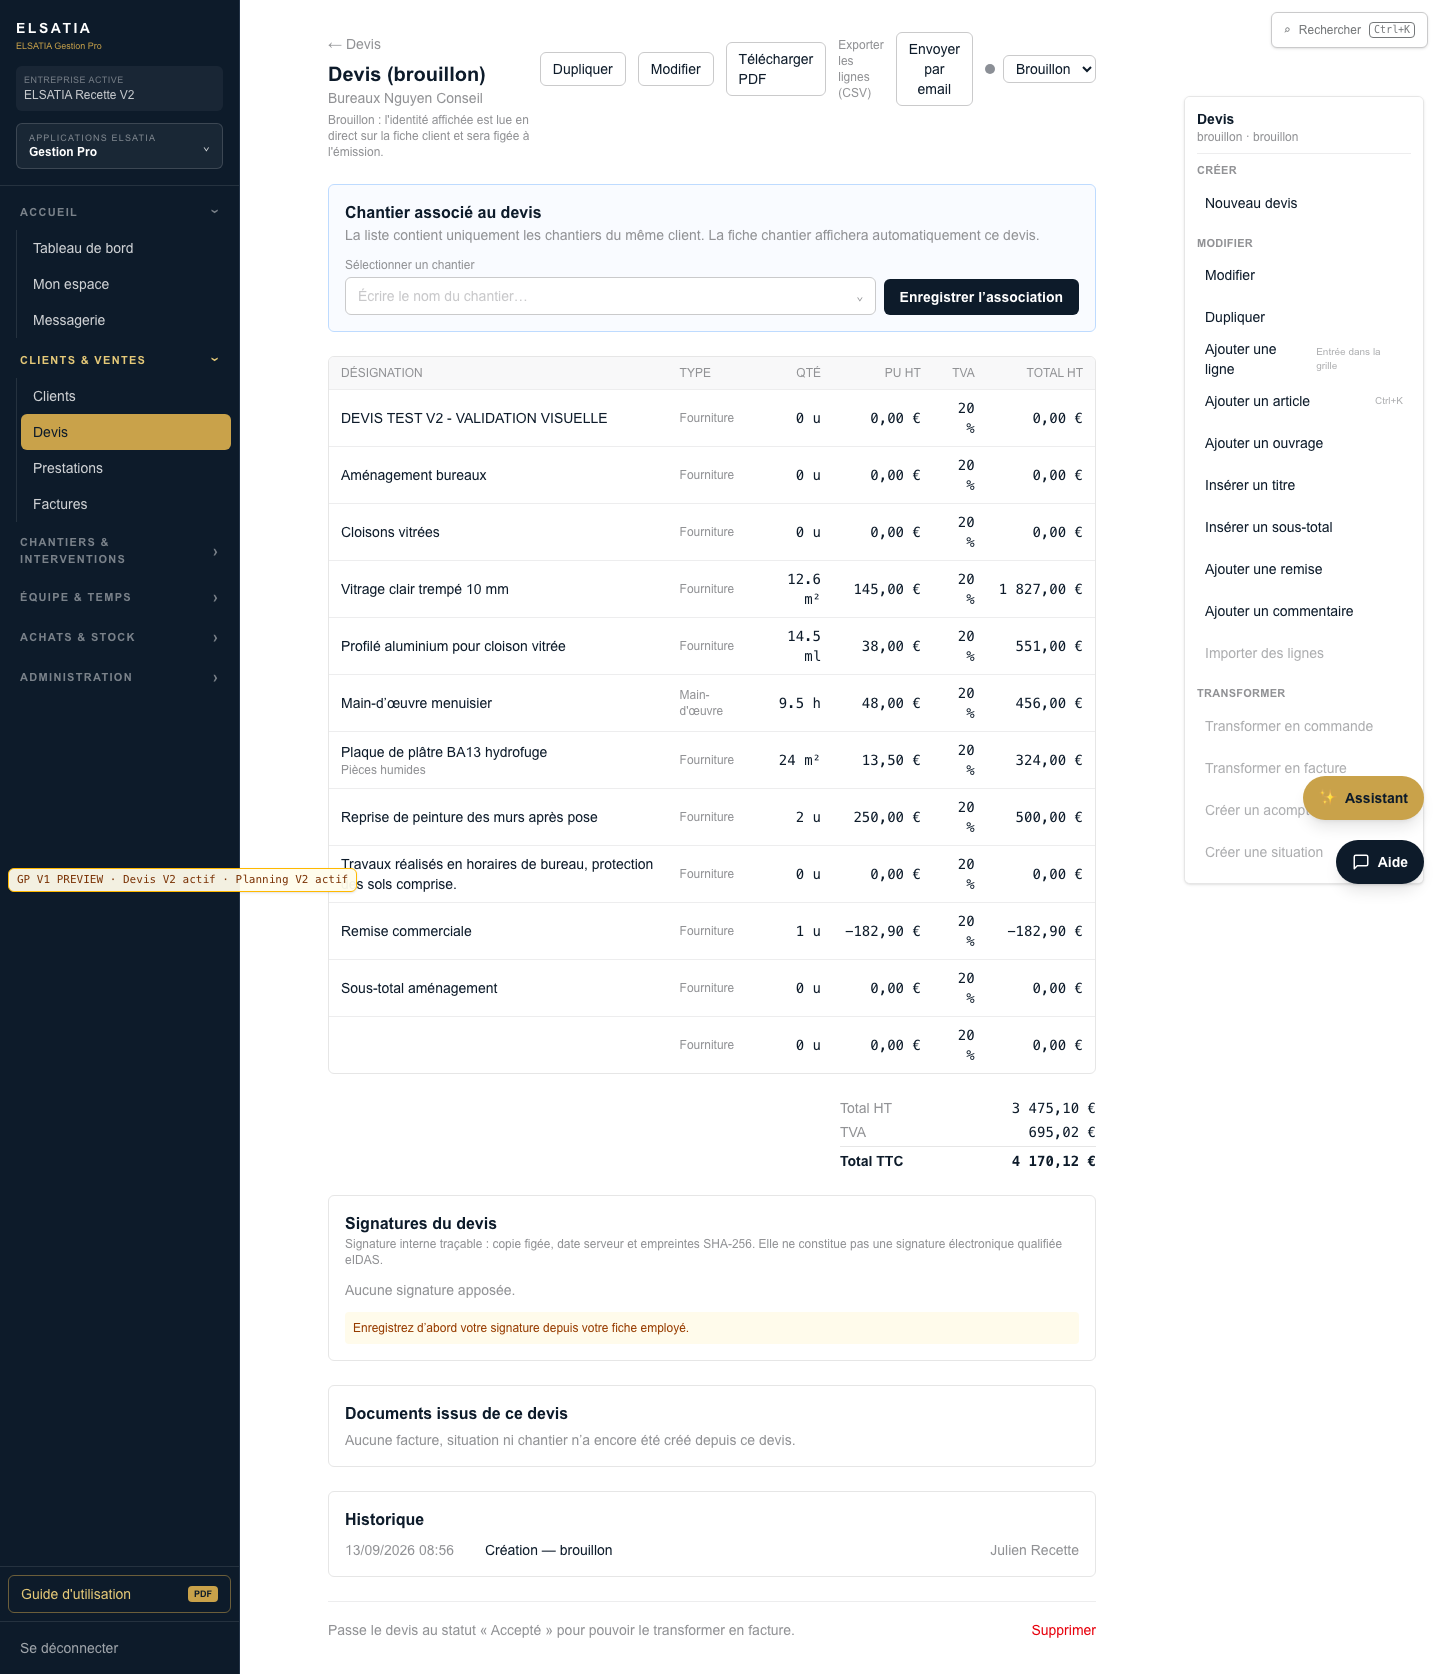
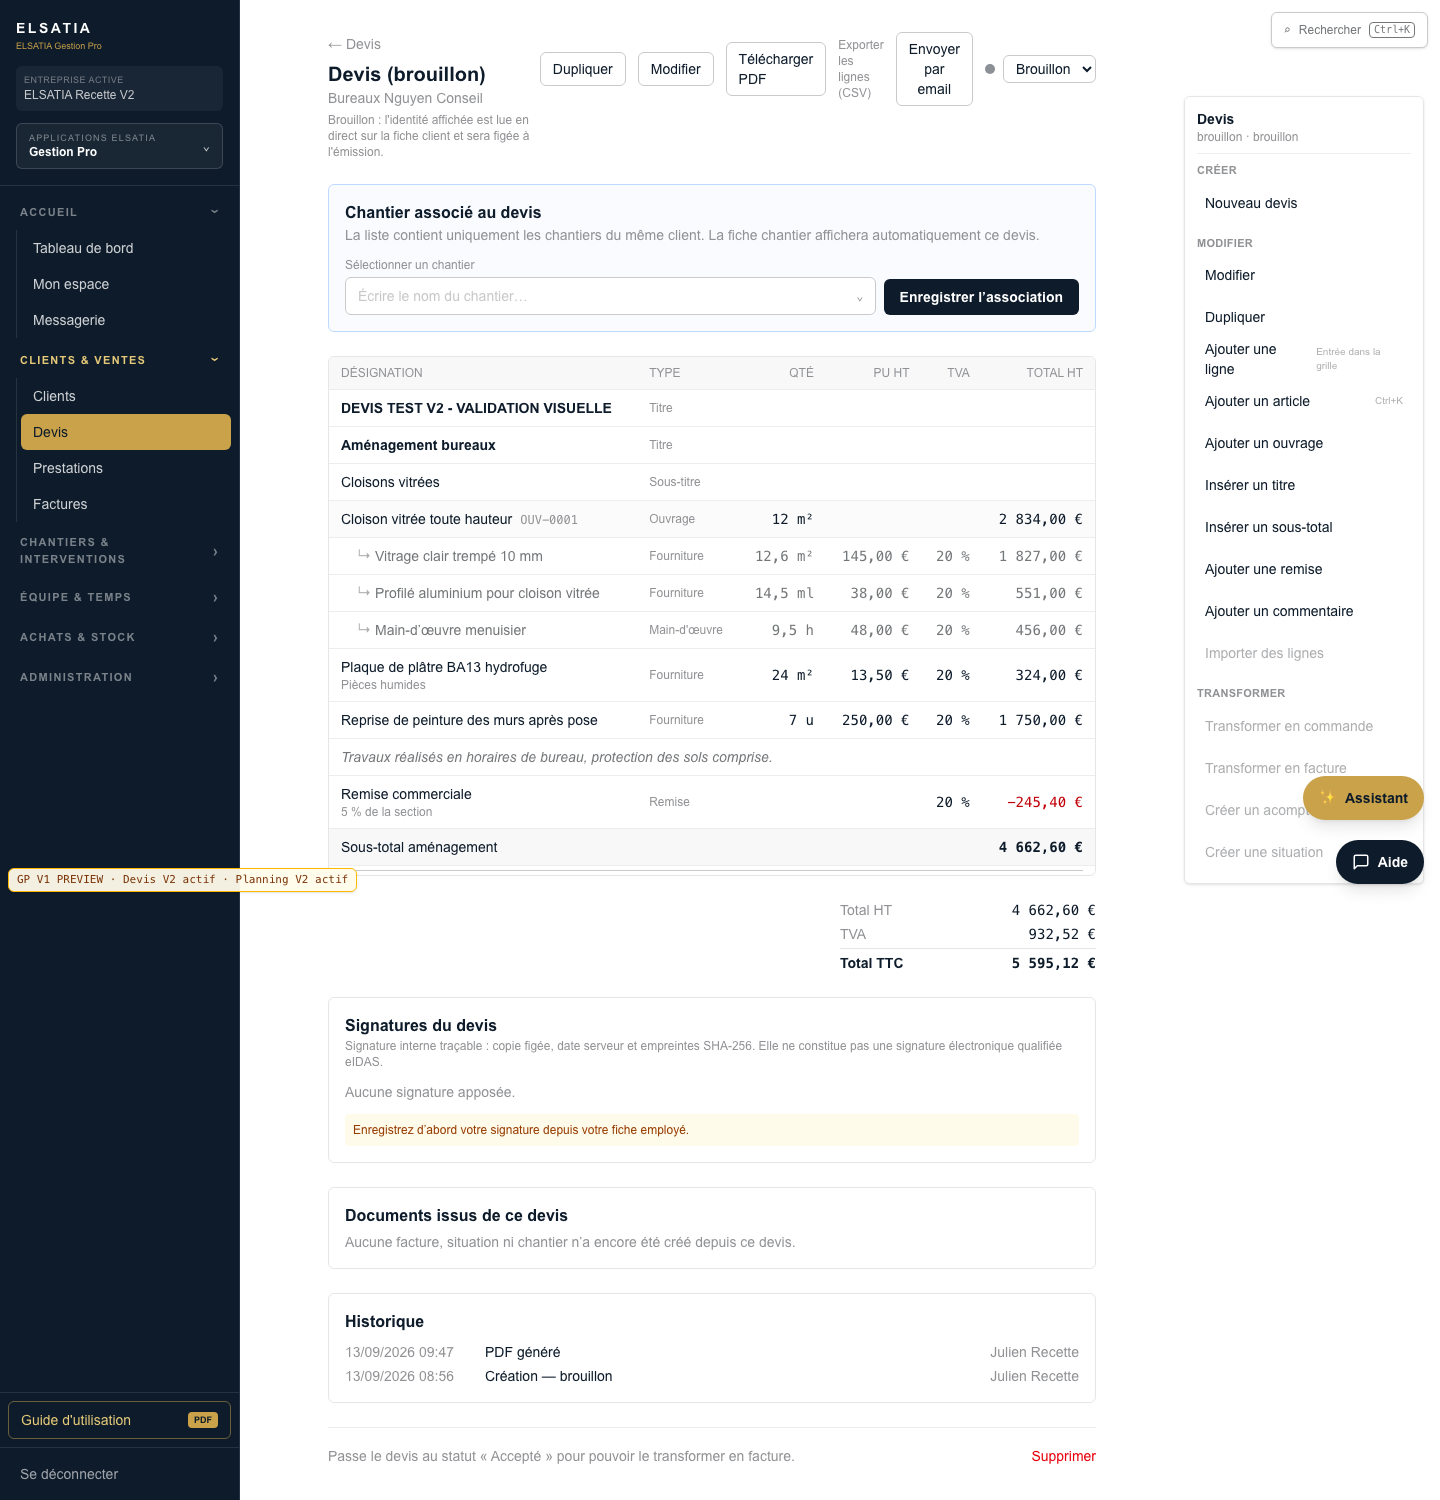
docs(gp-v1): rapport preview § 17 — migration 290 appliquée, fiche en lecture v2, verdict mis à jour

diff --git a/docs/gp-v1/ELSATIA_GP_V1_PREVIEW_VALIDATION_REPORT.md b/docs/gp-v1/ELSATIA_GP_V1_PREVIEW_VALIDATION_REPORT.md
@@ -236,7 +236,7 @@ Aucun `entreprise_feature_flags`, aucun override de recette : la visibilité vie
 | Copier / coller de lignes | ⚠ non présent en tant que tel (duplication oui) |
 | Aperçu A4 fidèle au PDF, en-tête complet | ✅ |
 | Grille pleine largeur | ✅ après correction (« Masquer l'aperçu ») ; par défaut l'aperçu prend la moitié ⚠ à trancher |
-| Fiche devis (lecture) : lignes de structure affichées « Fourniture · 0 u · 0,00 € », ouvrage éclaté | ⚠ présentation à aligner sur la v2 |
+| Fiche devis (lecture) : structure sans montant, ouvrage regroupé, remise, sous-total calculé | ✅ après correction `2e67d69` (capture 37) |
 | PDF téléchargeable depuis la preview | ✅ après correction (§ 13-14 : indice de runtime AL2023 ; 502 avant) |
 
 **Planning**
@@ -247,8 +247,8 @@ Aucun `entreprise_feature_flags`, aucun override de recette : la visibilité vie
 | Horaires, chantier, client, adresse, couleur, notes | ✅ |
 | Absences / congés, conflits (salarié doublé, congé, disponibilités, surcharge) | ✅ |
 | Filtres (type, chantier, recherche) | ✅ |
-| Temps de réponse avec 400 évènements | ⚠ 6,5 s de rendu serveur (§ 12) ; correctif SQL prêt (migration 290, non appliquée) |
-| Bouton « Compacte » actif peu lisible (texte clair sur fond clair) | ⚠ cosmétique |
+| Temps de réponse avec 400 évènements | ✅ 2,6-3,2 s après la migration 290 (§ 17) ; reste le coût RLS plateforme ⚠ |
+| Bouton de vue actif lisible au survol | ✅ après correction `2e67d69` |
 
 ## 12. Performance mesurée sur la preview (Vercel fra1 → Supabase eu-west-3, Chromium 1440 × 900)
 
@@ -329,7 +329,7 @@ Aucune modification de Production, aucune fusion, aucun déploiement Production,
 | Typecheck | `tsc --noEmit` : 0 erreur |
 | Lint | `npm run lint` : 0 erreur, 8 avertissements préexistants (`no-unused-vars`) |
 | Tests unitaires | vitest 2 380 tests : 2 373 verts, 3 ignorés ; sous charge 4 échecs (stripe webhook ×2, surface remises legacy, xlsx) qui **passent tous rejoués seuls** — `xlsx.test.ts` est connu pour dépasser 5 s sous charge |
-| Migrations | `verify-migrations` : 287 fichiers valides ; preview au ledger 289 (290 prête, non appliquée) ; pgTAP GP V1 : preuve du Fresh (§ 19 métier) + planning 25/25 et surface 10/10 avec la 290 |
+| Migrations | `verify-migrations` : 287 fichiers valides ; preview au ledger **290** (287 versions, § 17) ; pgTAP GP V1 : preuve du Fresh (§ 19 métier) + planning 25/25 et surface 10/10 avec la 290 |
 | Devis V2 visible | ✅ éditeur ligne par ligne, badge « Devis V2 actif » |
 | Planning V2 visible | ✅ badge « Planning V2 actif » |
 | Works visible sur Pro | ✅ entreprise de recette en Pro, sans override |
@@ -339,8 +339,27 @@ Aucune modification de Production, aucune fusion, aucun déploiement Production,
 | Production intacte | ✅ (jamais liée, jamais interrogée, aucun déploiement) |
 | PDF | ✅ 200 après `7f86053` |
 
-**Verdict : PRÊT POUR VALIDATION UTILISATEUR**, avec les points ouverts du § 15 (migration 290 à autoriser,
-aperçu par défaut, fiche de lecture, badge à retirer avant promotion, contraste « Compacte »).
+**Verdict : PRÊT POUR VALIDATION UTILISATEUR.** Points encore ouverts après le § 17 : aperçu A4 par défaut
+(décision produit), badge à retirer avant promotion, copier/coller de lignes (décision produit), incident
+`db push` 276 à traiter dans le train, coût RLS plateforme (lot plateforme). PDF confirmé par Julien en Production.
 
 Temps passé sur cette étape : 03:00 → 09:50 (sauvegarde, répétition générale, push en trois temps, seed,
 recette scriptée devis + planning + perf, 7 correctifs, rapport).
+
+## 17. Suite après retour de Julien (2026-09-13, 10:00 → 10:30)
+
+Julien confirme que « Télécharger PDF » fonctionne en Production et demande de continuer.
+
+- **Migration 290 appliquée sur la preview** (`db push`, 1 fichier, ledger 287 → dernière `20260913000290`) :
+  `conflits_planning` sous RLS **3 980 ms → 192 ms** ; surface `anon` inchangée (3). Page planning
+  40 salariés / 400 évènements : rendu serveur **6,5 s → 2,6-3,2 s**, blocs visibles 7,9 s → 3,9-4,9 s ;
+  enregistrement d'un déplacement clavier 9,4 s → 3,8 s ; vue jour 40 salariés 3,3 s → 1,6 s.
+  Le reste du temps est le coût ligne à ligne des politiques RLS (`est_membre_actif`, ≈ 1,8 ms/ligne),
+  préexistant et commun à toute la plateforme : à traiter dans un lot plateforme, pas dans GP V1.
+- **Fiche devis en lecture** (`2e67d69`) : moteur v2 seulement, module pur `lecture-lignes.ts` (3 tests) +
+  composant serveur `LignesDevisLecture` : titres / sous-titres / commentaires / séparateurs / sauts de page
+  sans montant, **ouvrage regroupé** au-dessus de ses composants (référence, quantité principale, total),
+  remise avec sa règle (« 5 % de la section »), **sous-total calculé** depuis le précédent. L'affichage
+  historique (drapeau éteint) est inchangé.
+- **Planning** (`2e67d69`) : bouton de vue actif lisible au survol (« Compacte » paraissait grisé).
+- Gate rejoué sur ces commits : lint 0 erreur, typecheck 0 erreur, tests ciblés verts, build Vercel Ready.
